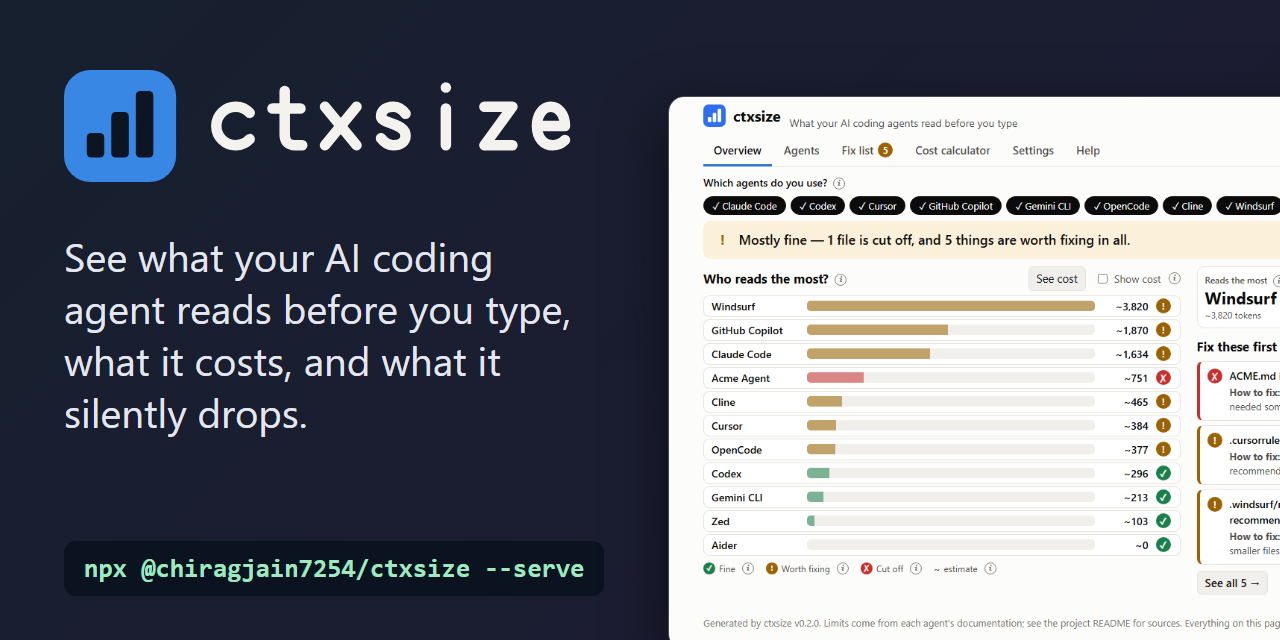
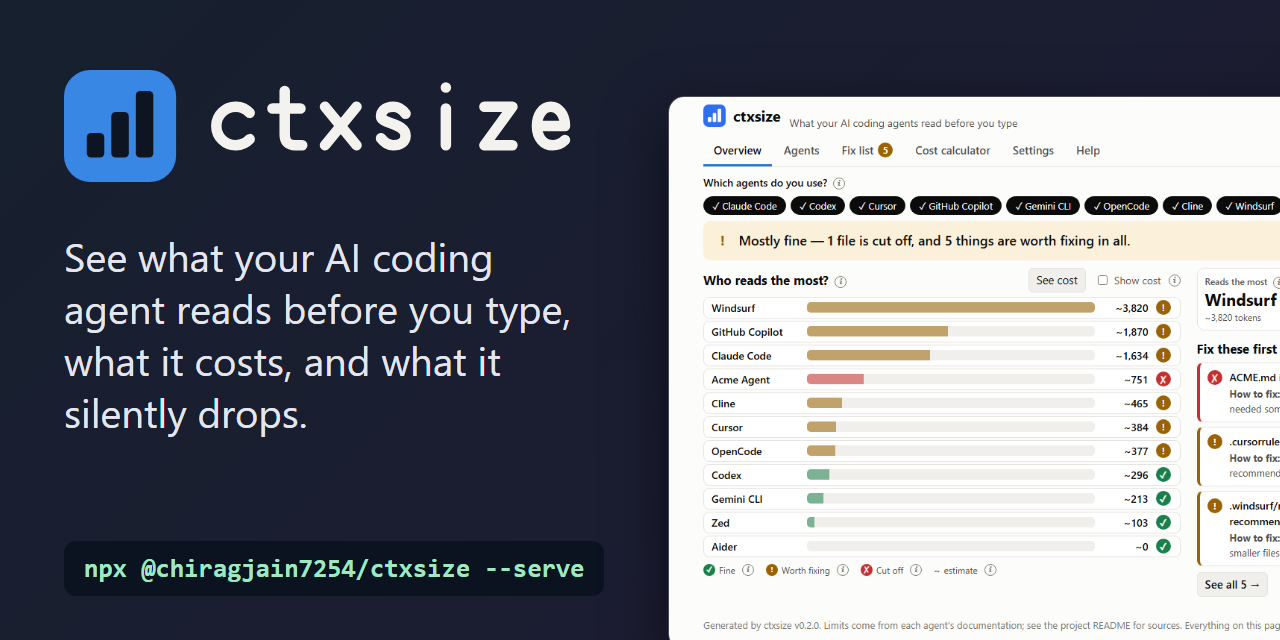
Rework README around the grade, why-it-matters and privacy

diff --git a/src/report/card.ts b/src/report/card.ts
@@ -110,8 +110,8 @@ function layout(report: Report, opts: CardOptions): Item[] {
 
   // The agents: a bar of startup tokens and the agent's own grade.
   text('What each agent reads', colX, 356, 3, INK, 'start', true);
-  const agents = report.agents;
-  const shown = agents.length > 5 ? agents.slice(0, 4) : agents;
+  const agents = [...report.agents].sort((a, b) => b.startup.total - a.startup.total);
+  const shown = agents.length > 5 ? agents.slice(0, 4) : agents; // heaviest first
   const max = Math.max(1, ...shown.map((a) => a.startup.total));
   const barX = colX + 260;
   const barMax = 280;

diff --git a/README.md b/README.md
@@ -12,6 +12,7 @@
 <a href="https://www.npmjs.com/package/@chiragjain7254/ctxsize"><img alt="npm downloads per month" src="https://img.shields.io/npm/dm/@chiragjain7254/ctxsize"></a>
 <a href="https://github.com/Chiragjain7254/ctxsize/actions/workflows/ci.yml"><img alt="CI" src="https://github.com/Chiragjain7254/ctxsize/actions/workflows/ci.yml/badge.svg"></a>
 <a href="https://github.com/Chiragjain7254/ctxsize/blob/main/LICENSE"><img alt="MIT license" src="https://img.shields.io/github/license/Chiragjain7254/ctxsize"></a>
+<a href="https://www.npmjs.com/package/@chiragjain7254/ctxsize"><img alt="Node version" src="https://img.shields.io/node/v/@chiragjain7254/ctxsize"></a>
 </p>
 
 </div>
@@ -20,12 +21,7 @@
 npx @chiragjain7254/ctxsize --serve
 ```
 
-<picture>
-  <source media="(max-width: 600px) and (prefers-color-scheme: dark)" srcset="https://raw.githubusercontent.com/Chiragjain7254/ctxsize/main/docs/img/report-mobile-dark.png">
-  <source media="(max-width: 600px)" srcset="https://raw.githubusercontent.com/Chiragjain7254/ctxsize/main/docs/img/report-mobile.png">
-  <source media="(prefers-color-scheme: dark)" srcset="https://raw.githubusercontent.com/Chiragjain7254/ctxsize/main/docs/img/report-dark.png">
-  <img src="https://raw.githubusercontent.com/Chiragjain7254/ctxsize/main/docs/img/report-light.png" alt="The ctxsize Overview: a verdict line, three tiles (who reads the most, what is cut off, what to fix), a bar chart of what each agent reads and the first things to fix." width="100%">
-</picture>
+![A 25-second demo: run one command, the Overview opens in the browser, hover a tooltip, type an example price in the Cost calculator, edit AGENTS.md, and the page updates by itself.](https://raw.githubusercontent.com/Chiragjain7254/ctxsize/main/docs/img/demo.gif)
 
 ## Sound familiar?
 
@@ -34,7 +30,7 @@ npx @chiragjain7254/ctxsize --serve
 - Your `AGENTS.md` files add up to more than 32 KiB, and Codex stops reading at that limit. ([Codex docs](https://learn.chatgpt.com/docs/agent-configuration/agents-md), [source](https://github.com/Chiragjain7254/ctxsize/blob/main/docs/WHY.md#agents-silently-drop-or-ignore-files))
 - The same paragraphs sit in two files that one agent reads, so you pay for them twice.
 
-**ctxsize shows all of this in one command.**
+**ctxsize shows all of this in one command, and gives your setup a grade from A to F.**
 
 ## Why I built this
 
@@ -42,42 +38,57 @@ I kept wondering why my agent ignored instructions I'd written. Then I found [Cl
 
 — Chirag
 
-## Think of it as airport luggage
+## Your context health, as a grade
 
-ctxsize weighs your agent files like airport luggage: how heavy (tokens), the extra charges (cost per message), what gets removed (files cut or ignored) and what's packed twice (duplicates).
+<picture>
+  <source media="(max-width: 600px) and (prefers-color-scheme: dark)" srcset="https://raw.githubusercontent.com/Chiragjain7254/ctxsize/main/docs/img/report-mobile-dark.png">
+  <source media="(max-width: 600px)" srcset="https://raw.githubusercontent.com/Chiragjain7254/ctxsize/main/docs/img/report-mobile.png">
+  <source media="(prefers-color-scheme: dark)" srcset="https://raw.githubusercontent.com/Chiragjain7254/ctxsize/main/docs/img/report-dark.png">
+  <img src="https://raw.githubusercontent.com/Chiragjain7254/ctxsize/main/docs/img/report-light.png" alt="The ctxsize Overview: a verdict line with the grade C, a bar chart of what each agent reads, and the first things to fix." width="100%">
+</picture>
 
-![A 25-second demo: run one command, the Overview opens in the browser, hover a tooltip, type an example price in the Cost calculator, edit AGENTS.md, and the page updates by itself.](https://raw.githubusercontent.com/Chiragjain7254/ctxsize/main/docs/img/demo.gif)
+Every agent and your repo overall get a grade. **A** means nothing to fix; anything cut off caps it at **C**. The grade is counted from the same list as the Fix list, so the two never disagree. Rules: [docs/GRADE.md](https://github.com/Chiragjain7254/ctxsize/blob/main/docs/GRADE.md). Share it with `--card` (a picture) or `--badge` (a README badge):
 
-## Work out what it costs, with your own price
+![A share card: the grade C in a big colored square, the top fixes and a bar of startup tokens per agent.](https://raw.githubusercontent.com/Chiragjain7254/ctxsize/main/docs/img/card.png)
 
-ctxsize has no prices of its own: prices change often and depend on your plan. Give yours and it does the sums, per message, per day and per month:
+## Why this matters
+
+In [a study of 50 popular repos](https://github.com/Chiragjain7254/ctxsize/blob/main/docs/STUDY.md) (picked for being well known, not sampled):
+
+- **36%** ship both a `CLAUDE.md` and an `AGENTS.md` at the root.
+- **22%** have a file that some agent ignores.
+- The median Claude Code startup load is **602 tokens**, the largest **7,514**.
+
+Measured with ctxsize 0.1.0 on 2026-10-15. Tokens are estimates. Method and every repo: [docs/STUDY.md](https://github.com/Chiragjain7254/ctxsize/blob/main/docs/STUDY.md).
+
+## ctxsize vs doing it by hand
+
+| | By hand | ctxsize |
+| --- | --- | --- |
+| Which files does each agent read? | Read each tool's docs, and re-read when they change | One command, limits from each tool's docs with a link and a date |
+| Is a file cut off or ignored? | Count bytes against a limit you have to find | Named, with the tokens lost |
+| What does it cost per message? | Guess | Tokens, and cost with your own price |
+| Duplicates and weak skill descriptions? | Diff files by eye | Listed with a fix |
+| Does it get worse over time? | You find out later | A CI check on every pull request |
+
+## Try it on your repo in 10 seconds
 
 ```sh
-npx @chiragjain7254/ctxsize --price 250 --per 1m --currency ₹
+cd your-repo
+npx @chiragjain7254/ctxsize          # the terminal summary and your grade
+npx @chiragjain7254/ctxsize --serve  # the live report in your browser
+npx @chiragjain7254/ctxsize init     # a starter ctxsize.json, and a CI workflow if you want one
 ```
 
-The report has a **Cost calculator** tab for the same thing, with an optional cached price and side-by-side prices to see which model is cheaper for *your* repo. On a monthly subscription you don't pay per token, so watch the tokens instead.
+## Features
 
-![The Cost calculator tab with two example prices side by side: cost per message, per day and per month for each agent, and which price is cheaper.](https://raw.githubusercontent.com/Chiragjain7254/ctxsize/main/docs/img/calculator.png)
-
-## What it checks
-
-Each agent reads different files and has different limits. ctxsize applies the rules from each agent's own documentation (every limit is in [`src/profiles.ts`](https://github.com/Chiragjain7254/ctxsize/blob/main/src/profiles.ts) with its source and the date it was checked). Details: [docs/tools.md](https://github.com/Chiragjain7254/ctxsize/blob/main/docs/tools.md).
-
-| Agent | Files it reads | Docs |
-| --- | --- | --- |
-| Claude Code | `CLAUDE.md`, `.claude/rules/`, skills, `@imports`; `AGENTS.md` only when there is no `CLAUDE.md` | [memory](https://code.claude.com/docs/en/memory.md), [skills](https://code.claude.com/docs/en/skills.md) |
-| Codex | `AGENTS.md` (and `AGENTS.override.md`) from the repo root down, skills | [AGENTS.md](https://learn.chatgpt.com/docs/agent-configuration/agents-md), [skills](https://learn.chatgpt.com/docs/build-skills) |
-| Cursor | `.cursor/rules/`, `AGENTS.md`; the old `.cursorrules` is flagged | [rules](https://cursor.com/docs/context/rules) |
-| GitHub Copilot | `.github/copilot-instructions.md`, `AGENTS.md`, `CLAUDE.md`, `GEMINI.md` | [instructions](https://docs.github.com/en/copilot/how-tos/configure-custom-instructions/add-repository-instructions) |
-| Gemini CLI | `GEMINI.md`, `@imports`, skills | [GEMINI.md](https://geminicli.com/docs/cli/gemini-md/), [skills](https://geminicli.com/docs/cli/skills/) |
-| OpenCode | the nearest `AGENTS.md`, else `CLAUDE.md`; skills | [rules](https://opencode.ai/docs/rules/), [skills](https://opencode.ai/docs/skills/) |
-| Cline | `.clinerules/`, `AGENTS.md`, `.cursorrules`, `.windsurfrules`, skills | [rules](https://docs.cline.bot/features/cline-rules), [skills](https://docs.cline.bot/customization/skills) |
-| Windsurf | `.windsurf/rules/`, `AGENTS.md`, `.windsurfrules`, skills | [memories](https://docs.devin.ai/desktop/cascade/memories), [AGENTS.md](https://docs.devin.ai/desktop/cascade/agents-md) |
-| Aider | nothing by itself: `CONVENTIONS.md` counts only if you pass it with `--read` | [conventions](https://aider.chat/docs/usage/conventions.html) |
-| Zed | the first of `.rules`, `.cursorrules`, `AGENTS.md`, `CLAUDE.md`, `GEMINI.md` and a few more; skills | [instructions](https://zed.dev/docs/preview/ai/instructions.html) (preview docs) |
-
-On top of that, ctxsize checks for duplicate text, skills with no description and big sections that could load only when needed. Your own tool? Describe it in [`ctxsize.json`](https://github.com/Chiragjain7254/ctxsize/blob/main/docs/CONFIG.md).
+- **A grade and a Fix list**: what is cut off, at risk, duplicated or vague, each with how to fix it and what it saves.
+- **10 agents**: Claude Code, Codex, Cursor, GitHub Copilot, Gemini CLI, OpenCode, Cline, Windsurf, Aider and Zed, plus any tool you describe in [`ctxsize.json`](https://github.com/Chiragjain7254/ctxsize/blob/main/docs/CONFIG.md). Which files each one reads: [docs/tools.md](https://github.com/Chiragjain7254/ctxsize/blob/main/docs/tools.md).
+- **Your own price**: ctxsize has no prices of its own. Give yours with `--price` and it does the sums per message, day and month.
+- **Live report**: `--serve` updates as you edit your files.
+- **Share it**: `--card card.png`, `--badge`, `--markdown` for a pull request comment.
+- **History and diffs**: `--history 20`, `--diff main`.
+- Everything else: [docs/FEATURES.md](https://github.com/Chiragjain7254/ctxsize/blob/main/docs/FEATURES.md), [every flag](https://github.com/Chiragjain7254/ctxsize/blob/main/docs/CLI.md).
 
 ## Don't trust us, check it in 5 minutes
 
@@ -91,32 +102,24 @@ On top of that, ctxsize checks for duplicate text, skills with no description an
     max-tokens: 8000
 ```
 
-The job fails when an agent's startup load grows past your budget. A pull request comment, the action's options and the exit codes are in [docs/CI.md](https://github.com/Chiragjain7254/ctxsize/blob/main/docs/CI.md).
+The job fails when an agent's startup load grows past your budget. `ctxsize init --workflow` writes the file for you. A pull request comment, the action's options and the exit codes are in [docs/CI.md](https://github.com/Chiragjain7254/ctxsize/blob/main/docs/CI.md); pre-commit hooks, a VS Code task and more are in [docs/INTEGRATIONS.md](https://github.com/Chiragjain7254/ctxsize/blob/main/docs/INTEGRATIONS.md).
 
-## Study: 50 popular repos
+## Privacy
 
-> **36% of 50 popular repos ship both a CLAUDE.md and an AGENTS.md at the root, 22% have a file some agent ignores, and the median Claude Code startup load is 602 tokens (largest: 7,514).**
-
-The repos were picked because they are well known and active, not sampled, and measured with ctxsize 0.1.0 on 2026-10-15. Method and every repo: [docs/STUDY.md](https://github.com/Chiragjain7254/ctxsize/blob/main/docs/STUDY.md).
+**No network. No telemetry. Your files never leave your machine.** ctxsize reads files, applies limits from each tool's public docs and prints numbers. It never runs your agents. (`--mcp` starts the local MCP servers in your repo's config, only when you ask.)
 
 <details>
 <summary><b>FAQ</b></summary>
 
 **Are the numbers exact?** No. They are estimates. Each provider counts tokens its own way, and ctxsize does not call any API.
 
-**Does it send my files anywhere?** No. It makes no network calls.
-
-**Does it run my agents?** No. It reads files and applies the limits from each tool's public docs.
-
 **Where do the limits come from?** [`src/profiles.ts`](https://github.com/Chiragjain7254/ctxsize/blob/main/src/profiles.ts). Each limit has a docs link and the date it was last checked. If a doc says nothing, ctxsize says "not documented" instead of guessing.
 
 **Does it read my home folder?** Only with `--include-user`.
 
-**Does it work on Windows?** Yes. CI runs on Linux, macOS and Windows.
+**Does it work on Windows?** Yes. CI runs on Linux, macOS and Windows. Needs Node 22.12 or newer.
 
-**What does `--mcp` run?** The local MCP server commands in the repo's config. Use it only on repos you trust.
-
-**Something went wrong?** See [docs/TROUBLESHOOTING.md](https://github.com/Chiragjain7254/ctxsize/blob/main/docs/TROUBLESHOOTING.md). Needs Node 22.12 or newer.
+**Something went wrong?** See [docs/TROUBLESHOOTING.md](https://github.com/Chiragjain7254/ctxsize/blob/main/docs/TROUBLESHOOTING.md).
 
 </details>
 
@@ -125,11 +128,8 @@ The repos were picked because they are well known and active, not sampled, and m
 This started as one person's frustration. Your agent, your repo and your ideas make it better.
 
 - ⭐ **Star it** if it helped.
-- 💬 **Tell us what you think** in the [feedback Discussion](https://github.com/Chiragjain7254/ctxsize/discussions/5).
-- 🛠 **Fix a [good first issue](https://github.com/Chiragjain7254/ctxsize/labels/good%20first%20issue).** Your first PR can take 10 minutes: [CONTRIBUTING.md](https://github.com/Chiragjain7254/ctxsize/blob/main/CONTRIBUTING.md).
+- 🅰 **Show us your grade** in the [Discussions](https://github.com/Chiragjain7254/ctxsize/discussions).
+- 🛠 **Fix a [good first issue](https://github.com/Chiragjain7254/ctxsize/labels/good%20first%20issue).** Your first PR can take 10 minutes: [CONTRIBUTING.md](https://github.com/Chiragjain7254/ctxsize/blob/main/CONTRIBUTING.md). Adding an agent takes about 15: [docs/ADD-AGENT.md](https://github.com/Chiragjain7254/ctxsize/blob/main/docs/ADD-AGENT.md).
+- 🧪 **Found an agent that behaves differently from what ctxsize predicts?** Run the [fruit test](https://github.com/Chiragjain7254/ctxsize/blob/main/docs/VERIFY.md) and [open an issue](https://github.com/Chiragjain7254/ctxsize/issues/new?template=agent-behavior-changed.yml). That is the most valuable contribution.
 
-Found an agent that behaves differently from what ctxsize predicts? Run the [fruit test](https://github.com/Chiragjain7254/ctxsize/blob/main/docs/VERIFY.md) and [open an issue](https://github.com/Chiragjain7254/ctxsize/issues/new?template=agent-behavior-changed.yml). That is the most valuable contribution.
-
-Ideas that change the direction of the project are welcome too.
-
-More: [every flag](https://github.com/Chiragjain7254/ctxsize/blob/main/docs/CLI.md) · [what ctxsize can do](https://github.com/Chiragjain7254/ctxsize/blob/main/docs/FEATURES.md) · [glossary](https://github.com/Chiragjain7254/ctxsize/blob/main/docs/GLOSSARY.md) · [architecture](https://github.com/Chiragjain7254/ctxsize/blob/main/docs/ARCHITECTURE.md) · MIT licensed.
+Where it is going: [ROADMAP.md](https://github.com/Chiragjain7254/ctxsize/blob/main/ROADMAP.md). Ideas that change the direction of the project are welcome too. MIT licensed.
